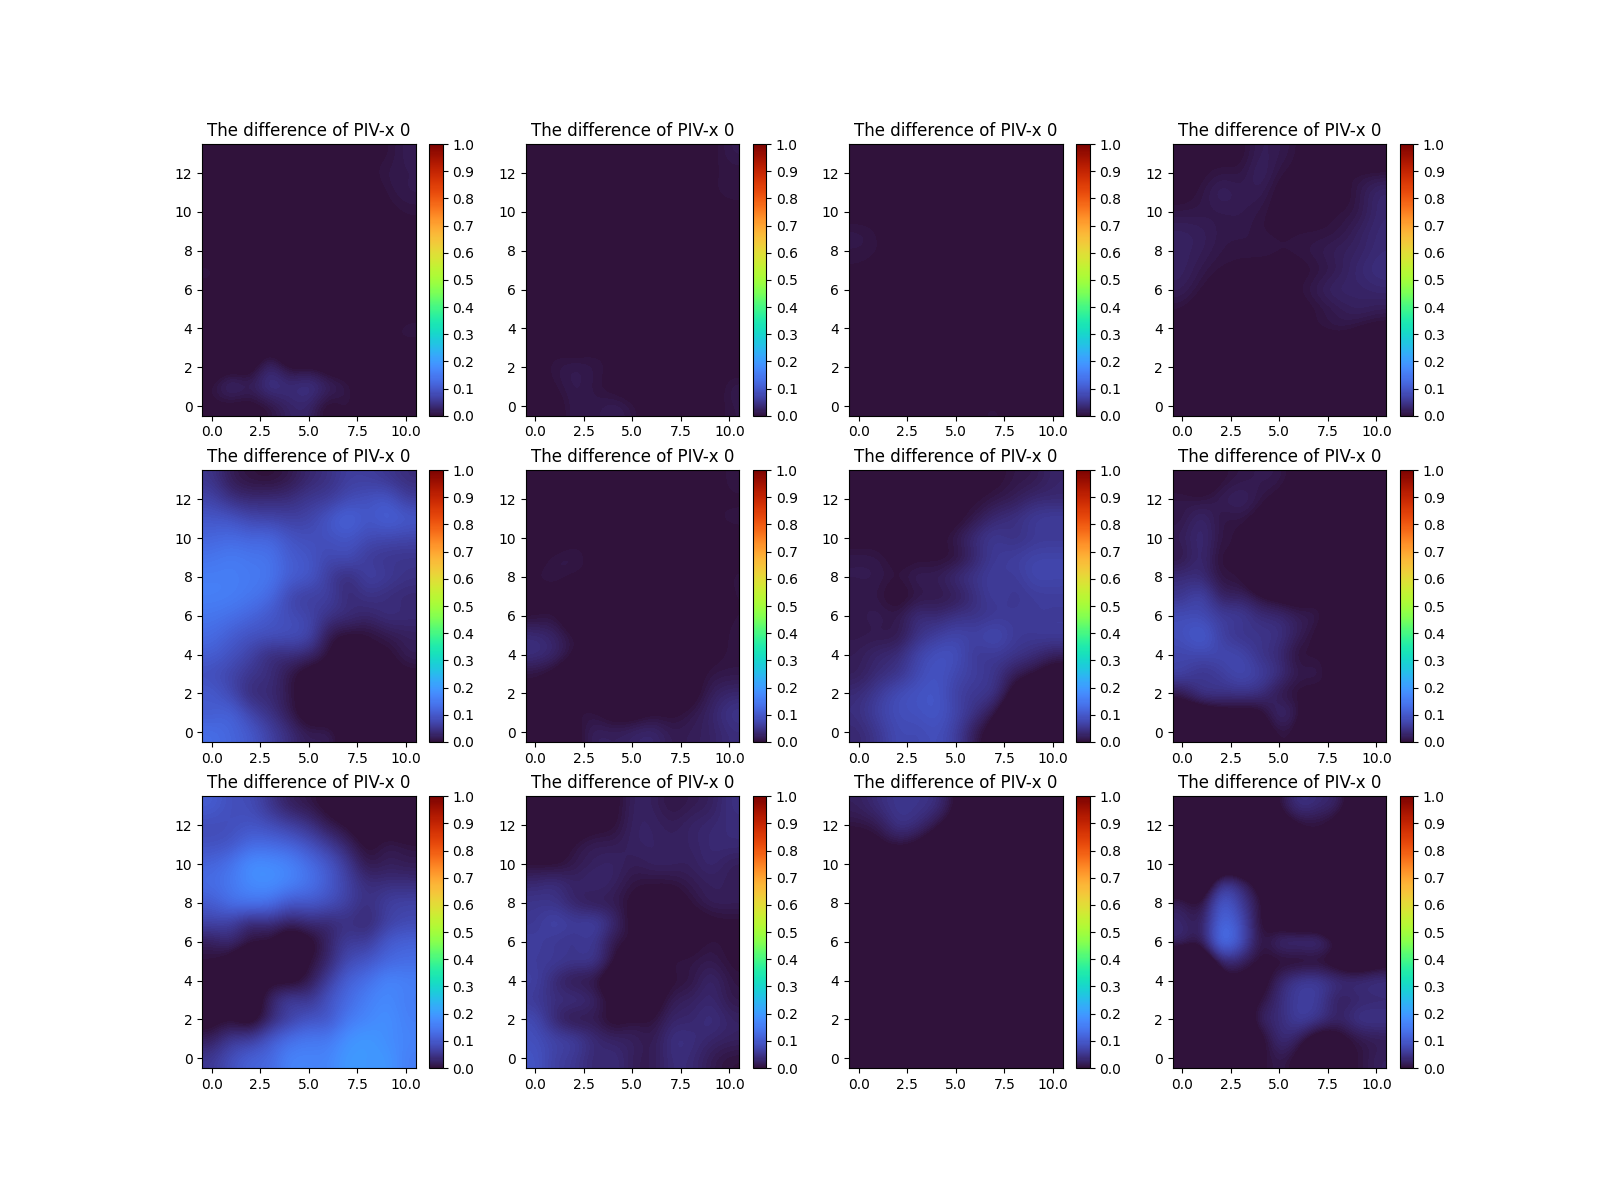
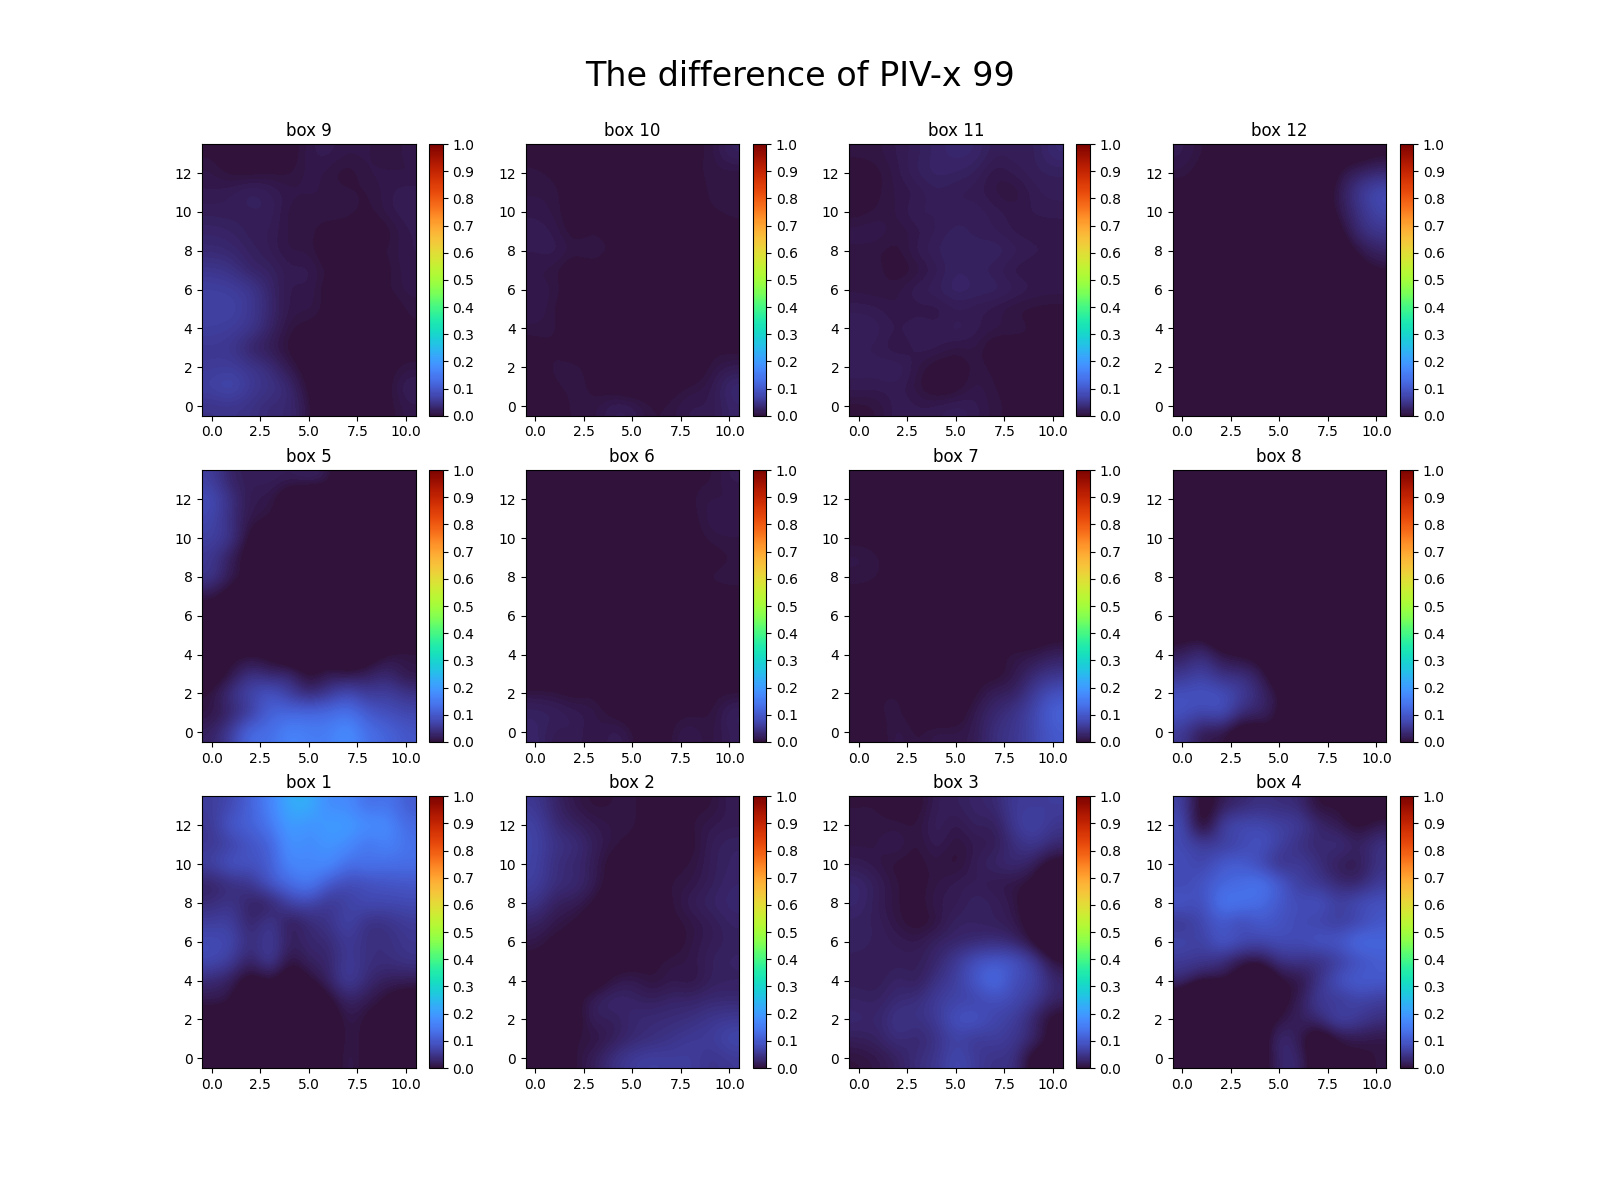
implement: the show comparison method

diff --git a/test_show_result.py b/test_show_result.py
@@ -12,7 +12,7 @@ from globalCNN.validate import validate_epoch
 from preprocess_dataset import preprocess_data, preprocess_old_data, show_image, MyDataset, \
     show_box_PIV, show_box_PLIF, crop_old_data
 from globalCNN.neural_net import FullyCNN
-from result_visualiser import show_loss, show_difference
+from result_visualiser import show_loss, show_difference, show_comparison
 
 """
 This file is used for showing the results via the trained model.
@@ -32,7 +32,7 @@ print(f"Selected device: {device}")
 batch_size = 100
 rows = 3
 columns = 4
-img_num = 0
+img_num = 99
 EPOCHS = 1000
 lr = 0.0001
 if_existing = False # a flag recording if there is an existing fullyCNN model
@@ -193,27 +193,44 @@ test_loss = validate_epoch(fullyCNN=fullyCNN, device=device, dataloader_in=testi
                            dataloader_out=testing_x_PIV_loader, loss_fn=loss_fn)
 print(f"The MSE loss for the testing dataset is {test_loss}.")
 
-# 2. show the comparison of the results
+# 2. show the difference and comparison of the results of training data
 training_prediction = fullyCNN_predict(fullyCNN=fullyCNN, device=device, dataloader_in=training_PLIF_loader)
 training_prediction = training_prediction.cpu().data.numpy()
 training_prediction = training_prediction.reshape((boxes, training_nums, PIV_x_height, PIV_x_width))
 training_x_PIV_data = training_x_PIV_data.reshape((boxes, training_nums, PIV_x_height, PIV_x_width))
 training_difference = training_prediction - training_x_PIV_data
+
+show_comparison(prediction_data=training_prediction, actual_data=training_x_PIV_data,
+                prediction_filename="training_prediction.png", actual_filename="training_actual.png",
+                rows=rows, columns=columns, img_num=img_num)
+
 show_difference(difference=training_difference, filename="training_difference.png",
                 rows=rows, columns=columns, img_num=img_num)
 
+# 3. show the difference and comparison of the results of validation data
 validation_prediction = fullyCNN_predict(fullyCNN=fullyCNN, device=device, dataloader_in=validation_PLIF_loader)
 validation_prediction = validation_prediction.cpu().data.numpy()
 validation_prediction = validation_prediction.reshape((boxes, validation_nums, PIV_x_height, PIV_x_width))
 validation_x_PIV_data = validation_x_PIV_data.reshape((boxes, validation_nums, PIV_x_height, PIV_x_width))
 validation_difference = validation_prediction - validation_x_PIV_data
+
+show_comparison(prediction_data=validation_prediction, actual_data=validation_x_PIV_data,
+                prediction_filename="validation_prediction.png", actual_filename="validation_actual.png",
+                rows=rows, columns=columns, img_num=img_num)
+
 show_difference(difference=validation_difference, filename="validataion_difference.png",
                 rows=rows, columns=columns, img_num=img_num)
 
+# 4. show the difference and comparison of the results of testing data
 testing_prediction = fullyCNN_predict(fullyCNN=fullyCNN, device=device, dataloader_in=testing_PLIF_loader)
 testing_prediction = testing_prediction.cpu().data.numpy()
 testing_prediction = testing_prediction.reshape((boxes, testing_nums, PIV_x_height, PIV_x_width))
 testing_x_PIV_data = testing_x_PIV_data.reshape((boxes, testing_nums, PIV_x_height, PIV_x_width))
 testing_difference = testing_prediction - testing_x_PIV_data
+
+show_comparison(prediction_data=testing_prediction, actual_data=testing_x_PIV_data,
+                prediction_filename="testing_prediction.png", actual_filename="testing_actual.png",
+                rows=rows, columns=columns, img_num=img_num)
+
 show_difference(difference=testing_difference, filename="testing_difference.png",
                 rows=rows, columns=columns, img_num=img_num)

diff --git a/result_visualiser.py b/result_visualiser.py
@@ -14,21 +14,52 @@ def show_loss(loss, filename: str):
     plt.savefig(f"./result/{filename}")
     plt.show()
 
-def show_difference(difference: np.ndarray, filename: str, rows: int, columns: int, img_num: int):
+# Internal Function
+def show_boxes_image(image_data: np.ndarray, rows: int, columns: int, vmin: float, vmax: float,
+                     filename: str, title: str):
 
-    vmin = 0.0
-    vmax = 1.0
     plt.figure(figsize=(16, 12))
+    plt.suptitle(title, fontsize=24, y=0.95)
 
     for j in range(rows):
         for i in range(columns):
             plt.subplot(3, 4, (rows - 1 - j) * columns + i + 1)
 
-            plt.title(f"The difference of PIV-x {img_num}")
-            plt.imshow(difference[j * columns + i][img_num][:][:], cmap='turbo', origin='lower', interpolation='bicubic',
-                       vmin=vmin, vmax=vmax)
-            plt.colorbar(ticks=np.arange(vmin, vmax+0.1, 0.1))
+            plt.title(f"box {j * columns + i + 1}")
+            plt.imshow(image_data[j * columns + i][:][:], cmap='turbo', origin='lower',
+                       interpolation='bicubic', vmin=vmin, vmax=vmax)
+            plt.colorbar(ticks=np.arange(vmin, vmax + 0.1, 0.1))
 
     plt.savefig(f"./result/{filename}")
     plt.show()
+
+
+def show_difference(difference: np.ndarray, filename: str, rows: int, columns: int, img_num: int):
+
+    vmin = 0.0
+    vmax = 1.0
+    title = "The difference of PIV-x " + str(img_num)
+
+    show_boxes_image(image_data=difference[:, img_num, :, :], rows=rows, columns=columns,
+                     vmin=vmin, vmax=vmax, filename=filename, title=title)
+
+
+def show_comparison(prediction_data: np.ndarray, actual_data: np.ndarray, prediction_filename: str,
+                    actual_filename: str, rows: int, columns: int, img_num: int):
+
+    vmin = 0.0
+    vmax = 1.0
+    prediction_title = "The prediction data of PIV-x " + str(img_num)
+    actual_title = "The actual data of PIV-x" + str(img_num)
+
+    show_boxes_image(image_data=prediction_data[:, img_num, :, :], rows=rows, columns=columns,
+                     vmin=vmin, vmax=vmax, filename=prediction_filename, title=prediction_title)
+
+    show_boxes_image(image_data=actual_data[:, img_num, :, :], rows=rows, columns=columns,
+                     vmin=vmin, vmax=vmax, filename=actual_filename, title=actual_title)
+
+
+
+
+
 
